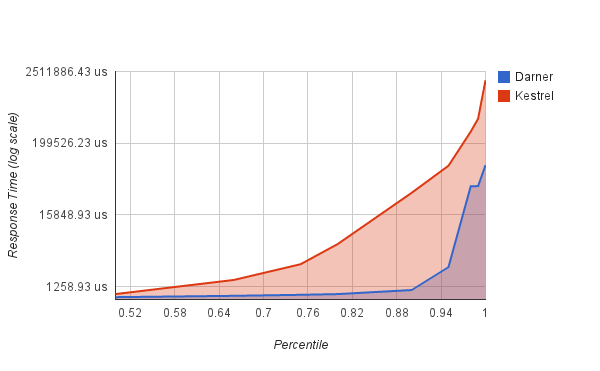
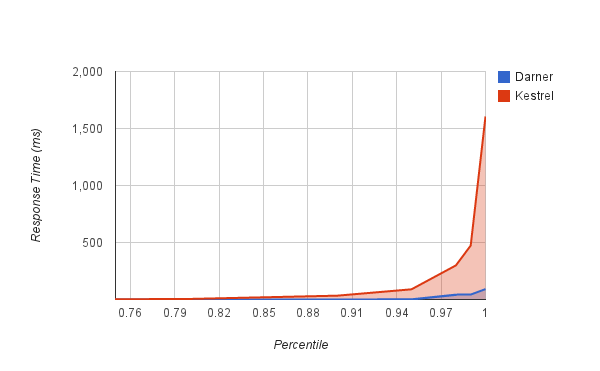
use same axis format on all charts, ditch log scale

diff --git a/docs/benchmarks.md b/docs/benchmarks.md
@@ -7,7 +7,7 @@ Benchmark Details:
 
 # Resident Memory
 
-How much memory does the queue server use?  We are testing both steady-state requirements, and also how aggressively
+How much memory does the queue server use?  We are testing both steady-state memory resident, and also how aggressively
 the server acquires and releases memory as queues expand and contract.  We tuned Kestrel's JVM down to the smallest
 heap that didn't cause OOM's and didn't impact performance: `-Xmx256m -Xms256m`.
 
